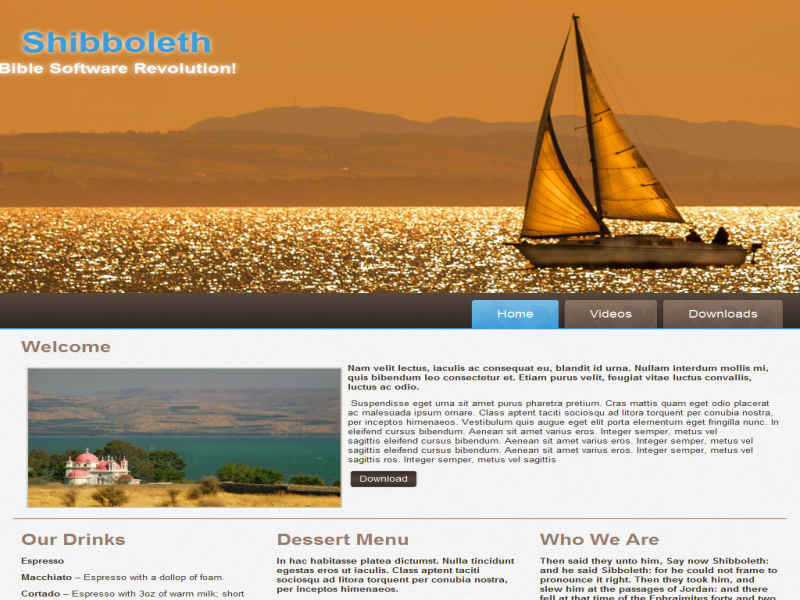
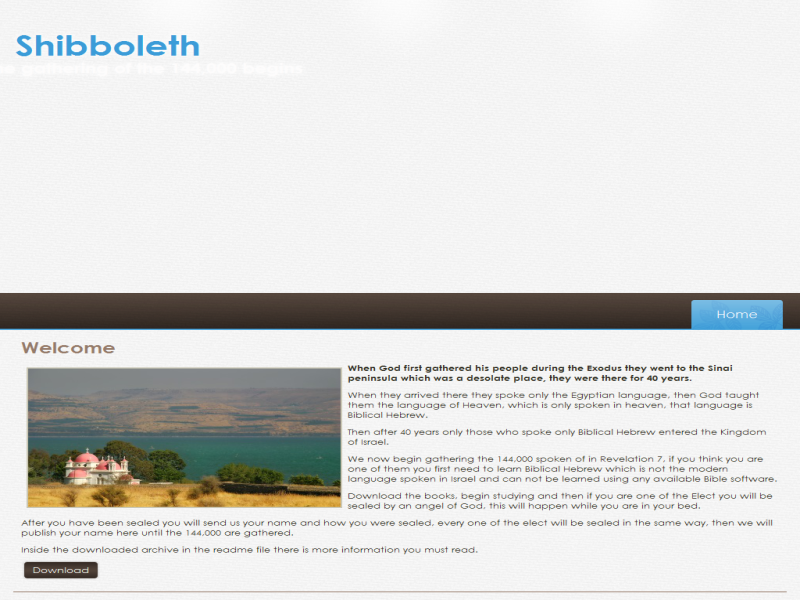
5

diff --git a/index.html b/index.html
@@ -32,7 +32,7 @@
 <h1 class="art-headline">
     <a href="/">Shibboleth</a>
 </h1>
-<h2 class="art-slogan">Bible Software Revolution!</h2>
+<h2 class="art-slogan">The gathering of the 144,000 begins</h2>
 
 
 
@@ -43,7 +43,7 @@
 </header>
 <nav class="art-nav">
     <div class="art-nav-inner">
-    <ul class="art-hmenu"><li><a href="index.html" class="active">Home</a></li><li><a href="videos.html">Videos</a></li><li><a href="downloads.html">Downloads</a></li></ul> 
+    <ul class="art-hmenu"><li><a href="index.html" class="active">Home</a></li></ul> 
         </div>
     </nav>
 <div class="art-sheet clearfix">
@@ -57,8 +57,8 @@
     <div class="art-content-layout-row">
     <div class="art-layout-cell layout-item-1" style="width: 100%" >
         <h3>Welcome</h3>
-        <p><img width="400" height="236" alt="" src="images/Untitled.jpg" style="float: left; border-top-style: solid; border-right-style: solid; border-bottom-style: solid; border-left-style: solid; border-top-color: rgb(202, 199, 180); border-right-color: rgb(202, 199, 180); border-bottom-color: rgb(202, 199, 180); border-left-color: rgb(202, 199, 180); border-top-width: 2px; border-right-width: 2px; border-bottom-width: 2px; border-left-width: 2px;" class=""><span style="font-weight: bold;">Nam velit lectus, iaculis ac consequat eu, blandit id urna. Nullam interdum mollis mi, quis bibendum leo consectetur et. Etiam purus velit, feugiat vitae luctus convallis, luctus ac odio.</span></p>
-        <p>&nbsp;Suspendisse eget urna sit amet purus pharetra pretium. Cras mattis quam eget odio placerat ac malesuada ipsum ornare. Class aptent taciti sociosqu ad litora torquent per conubia nostra, per inceptos himenaeos. Vestibulum quis augue eget elit porta elementum eget fringilla nunc. In eleifend cursus bibendum. Aenean sit amet varius eros. Integer semper, metus vel sagittis&nbsp;eleifend cursus bibendum. Aenean sit amet varius eros. Integer semper, metus vel sagittis&nbsp;eleifend cursus bibendum. Aenean sit amet varius eros. Integer semper, metus vel sagittis ros. Integer semper, metus vel sagittis</p><p>&nbsp;<a href="https://github.com/shibboleth2015/shibboleth/releases" class="art-button">Download</a><br></p>
+        <p><img width="400" height="236" alt="" src="images/Untitled.jpg" style="float: left; border-top-style: solid; border-right-style: solid; border-bottom-style: solid; border-left-style: solid; border-top-color: rgb(202, 199, 180); border-right-color: rgb(202, 199, 180); border-bottom-color: rgb(202, 199, 180); border-left-color: rgb(202, 199, 180); border-top-width: 2px; border-right-width: 2px; border-bottom-width: 2px; border-left-width: 2px;" class=""><span style="font-weight: bold;">When God first gathered his people during the Exodus they went to the Sinai peninsula which was a desolate place, they were there for 40 years.</span></p>
+        <p>When they arrived there they spoke only the Egyptian language, then God taught them the language of Heaven, which is only spoken in heaven, that language is Biblical Hebrew.</p><p>Then after 40 years only those who spoke only Biblical Hebrew entered the Kingdom of Israel.</p><p>We now begin gathering the 144,000 spoken of in Revelation 7, if you think you are one of them you first need to learn Biblical Hebrew which is not the modern language spoken in Israel and can not be learned using any available Bible software.</p><p>Download the books, begin studying and then if you are one of the Elect you will be sealed by an angel of God, this will happen while you are in your bed.</p><p>After you have been sealed you will send us your name and how you were sealed, every one of the elect will be sealed in the same way, then we will publish your name here until the 144,000 are gathered.</p><p>Inside the downloaded archive in the readme file there is more information you must read.</p><p>&nbsp;<a href="https://github.com/shibboleth2015/shibboleth/releases" class="art-button">Download</a><br></p>
     </div>
     </div>
 </div>
@@ -66,9 +66,9 @@
 </div><div class="art-content-layout">
     <div class="art-content-layout-row">
     <div class="art-layout-cell layout-item-1" style="width: 33%" >
-        <h3>Our Drinks</h3>
+        <h3>Requirements</h3>
     </div><div class="art-layout-cell layout-item-1" style="width: 34%" >
-        <h3>Dessert Menu</h3>
+        <h3>Videos</h3>
     </div><div class="art-layout-cell layout-item-1" style="width: 33%" >
         <h3>Who We Are</h3>
     </div>
@@ -77,25 +77,18 @@
 <div class="art-content-layout">
     <div class="art-content-layout-row">
     <div class="art-layout-cell layout-item-1" style="width: 33%" >
-        <p><span style="font-weight: bold;">Espresso</span></p>
+        <p><span style="font-weight: bold;">The requirements for the Elect:</span></p>
         <p>                  </p>
-        <p><span style="font-weight: bold;">Macchiato</span> – Espresso with a dollop of foam.</p>
+        <p><span style="font-weight: bold;">Sealed</span> – Are sealed by an Angel of God in the same way.</p>
         <p>                  </p>
-        <p><span style="font-weight: bold;">Cortado</span> – Espresso with 3oz of warm milk; short and smooth.</p>
+        <p><span style="font-weight: bold;">Follow</span> – S<span style="color: rgb(75, 72, 53); font-family: Verdana, Geneva, Arial, Helvetica, sans-serif; line-height: 20px;">tand on Mount Zion with "a Lamb".</span></p>
         <p>                  </p>
-        <p><span style="font-weight: bold;">Cappuccino</span> – One part espresso, one part milk, one part foam.</p>
-        <p>                  </p>
-        <p><span style="font-weight: bold;">Latte</span> – Espresso and steamed milk, with a touch of foam.</p>
-        <p>                  </p>
-        <p><span style="font-weight: bold;">Mocha</span> – Espresso, steamed milk, and chocolate.</p>
+        <p><span style="font-weight: bold;">New Song</span> –&nbsp;<span style="color: rgb(75, 72, 53); font-family: Verdana, Geneva, Arial, Helvetica, sans-serif; line-height: 20px;">Sing a new song no one else can sing (requires Biblical Hebrew).</span></p><p><span style="font-weight: bold;">Redeemed</span>&nbsp;–&nbsp;<span style="color: rgb(75, 72, 53); font-family: Verdana, Geneva, Arial, Helvetica, sans-serif; line-height: 20px;">Are redeemed from the earth</span>.</p><p><span style="font-weight: bold;">Firstfruits</span>&nbsp;–&nbsp;<span style="color: rgb(75, 72, 53); font-family: Verdana, Geneva, Arial, Helvetica, sans-serif; line-height: 20px;">Are considered the firstfruits of God's harvest</span><span style="color: rgb(75, 72, 53); font-family: Verdana, Geneva, Arial, Helvetica, sans-serif; line-height: 20px;">.</span></p><p><span style="font-weight: bold;">Work</span>&nbsp;–&nbsp;<span style="color: rgb(75, 72, 53); font-family: Verdana, Geneva, Arial, Helvetica, sans-serif; line-height: 20px;">Have a lot of work to do during the coming tribulation</span><span style="color: rgb(75, 72, 53); font-family: Verdana, Geneva, Arial, Helvetica, sans-serif; line-height: 20px;">.</span></p>
         <p>     </p>
     </div><div class="art-layout-cell layout-item-1" style="width: 34%" >
-        <p><span style="font-weight: bold;">In hac habitasse platea dictumst. Nulla tincidunt egestas eros ut iaculis. Class aptent taciti sociosqu ad litora torquent per conubia nostra, per inceptos himenaeos.&nbsp;</span></p>
-        <p>Breakfast Menu <a href="#">...</a></p>
-        <p>Lunch Menu <a href="#"></a>...</p>
-        <p>Dinner Menu&nbsp;<a href="#">...</a></p>
-        <p>Dessert Menu&nbsp;<a href="#">...</a></p>
-        <p>&nbsp;<a href="#" class="art-button">Learn more</a>&nbsp;</p>
+        <p><span style="font-weight: bold;">After the 144,000 have been elected and their names published here, we will gather for the first time, then tasks will be assigned to them.&nbsp;</span></p><p><span style="font-weight: bold;">You must document yourself about the 144,000, first watch these videos taken from the internet to know more.</span></p><p><span style="font-weight: bold;">Time is running out.</span></p><p><a href="https://www.youtube.com/watch?v=zVp0Gn7B8Ks">Video 1&nbsp;...</a><br></p><p><a href="https://www.youtube.com/watch?v=9W_ZqL58to8">Video 2&nbsp;...</a></p>
+        <p><a href="#"></a></p>
+        <p><a href="https://www.youtube.com/watch?v=Bkqr0TVItis">Video 3&nbsp;...</a></p><p><a href="https://www.youtube.com/watch?v=7E8eqHiWTrA">Video 4&nbsp;...</a></p>
     </div><div class="art-layout-cell layout-item-1" style="width: 33%" >
         <p style="text-align: left;"><span style="font-weight: bold;">Then said they unto him, Say now Shibboleth: and he said Sibboleth: for he could not frame to pronounce it right. Then they took him, and slew him at the passages of Jordan: and there fell at that time of the Ephraimites forty and two thousand.</span><br></p><p><span style="font-weight: bold;"></span></p>
         <p><img width="217" height="144" alt="" src="images/sagres3.jpg" style="border-top-style: solid; border-right-style: solid; border-bottom-style: solid; border-left-style: solid; border-top-color: rgb(202, 199, 180); border-right-color: rgb(202, 199, 180); border-bottom-color: rgb(202, 199, 180); border-left-color: rgb(202, 199, 180); border-top-width: 2px; border-right-width: 2px; border-bottom-width: 2px; border-left-width: 2px;" class=""><br></p>
@@ -118,7 +111,7 @@
     <div class="art-layout-cell layout-item-0" style="width: 12%">
         <p><a href="#" class="art-rss-tag-icon" style="line-height: 38px;">RSS</a><br></p>
     </div><div class="art-layout-cell layout-item-1" style="width: 88%">
-        <p>Shibboleth Bible Software 2016. &nbsp; &nbsp; &nbsp; &nbsp; &nbsp; &nbsp; &nbsp; &nbsp;Multae terricolis linguae, coelestibus una.</p>
+        <p>Shibboleth 2017. &nbsp; &nbsp; &nbsp; &nbsp; &nbsp; &nbsp; &nbsp; Many languages in the world, only one in Heaven.</p>
     </div>
     </div>
 </div>

diff --git a/style.css b/style.css
@@ -47,16 +47,16 @@ h1, h2, h3, h4, h5, h6, p, a, ul, ol, li
    background: -ms-linear-gradient(top, #332A24 0, #4E4037 40%, #514339 50%, #4E4037 60%, #332A24 100%) no-repeat;
    -svg-background: linear-gradient(top, #332A24 0, #4E4037 40%, #514339 50%, #4E4037 60%, #332A24 100%) no-repeat;
    background: linear-gradient(to bottom, #332A24 0, #4E4037 40%, #514339 50%, #4E4037 60%, #332A24 100%) no-repeat;
-   -webkit-border-radius:3px;
-   -moz-border-radius:3px;
-   border-radius:3px;
+   -webkit-border-radius:4px;
+   -moz-border-radius:4px;
+   border-radius:4px;
    -webkit-box-shadow:0 0 2px 1px rgba(0, 0, 0, 0.15);
    -moz-box-shadow:0 0 2px 1px rgba(0, 0, 0, 0.15);
    box-shadow:0 0 2px 1px rgba(0, 0, 0, 0.15);
    border:1px solid #453931;
    padding:0 10px;
    margin:0 auto;
-   height:25px;
+   height:26px;
 }
 
 .art-postcontent,
@@ -450,7 +450,7 @@ text-shadow: 0px 0px 12px rgb(255, 255, 255);
   top: 104px;
   left: 0%;
   line-height: 100%;
-  margin-left: -14px !important;
+  margin-left: -19px !important;
   -webkit-transform: rotate(0deg);
   -moz-transform: rotate(0deg);
   -o-transform: rotate(0deg);
@@ -673,11 +673,11 @@ ul.art-hmenu>li>a
    margin:0 auto;
    position: relative;
    display: block;
-   height: 48px;
+   height: 49px;
    cursor: pointer;
    text-decoration: none;
    color: #FFFFFF;
-   line-height: 48px;
+   line-height: 49px;
    text-align: center;
 }
 
@@ -775,11 +775,11 @@ ul.art-hmenu li li ul>li:last-child
 {
    display: block;
    white-space: nowrap;
-   height: 24px;
+   height: 25px;
    min-width: 7em;
    border: 1px solid transparent;
    text-align: left;
-   line-height: 24px;
+   line-height: 25px;
    color: #081D2B;
    font-size: 13px;
    font-family: 'Century Gothic', Arial, 'Arial Unicode MS', Helvetica, Sans-Serif;
@@ -806,7 +806,7 @@ ul.art-hmenu li li ul>li:last-child
 .art-hmenu ul a:hover
 {
    text-align: left;
-   line-height: 24px;
+   line-height: 25px;
    color: #081D2B;
    font-size: 13px;
    font-family: 'Century Gothic', Arial, 'Arial Unicode MS', Helvetica, Sans-Serif;
@@ -1142,7 +1142,7 @@ button.art-button
    overflow: visible;
    cursor: pointer;
    text-indent: 0;
-   line-height: 25px;
+   line-height: 26px;
    -webkit-box-sizing: content-box;
    -moz-box-sizing: content-box;
    box-sizing: content-box;
@@ -1189,9 +1189,9 @@ input.art-button
    background: -ms-linear-gradient(top, #332A24 0, #4E4037 40%, #514339 50%, #4E4037 60%, #332A24 100%) no-repeat;
    -svg-background: linear-gradient(top, #332A24 0, #4E4037 40%, #514339 50%, #4E4037 60%, #332A24 100%) no-repeat;
    background: linear-gradient(to bottom, #332A24 0, #4E4037 40%, #514339 50%, #4E4037 60%, #332A24 100%) no-repeat;
-   -webkit-border-radius:3px;
-   -moz-border-radius:3px;
-   border-radius:3px;
+   -webkit-border-radius:4px;
+   -moz-border-radius:4px;
+   border-radius:4px;
    -webkit-box-shadow:0 0 2px 1px rgba(0, 0, 0, 0.15);
    -moz-box-shadow:0 0 2px 1px rgba(0, 0, 0, 0.15);
    box-shadow:0 0 2px 1px rgba(0, 0, 0, 0.15);
@@ -1212,9 +1212,9 @@ input.art-button
    background: -ms-linear-gradient(top, #332A24 0, #4E4037 40%, #514339 50%, #4E4037 60%, #332A24 100%) no-repeat;
    -svg-background: linear-gradient(top, #332A24 0, #4E4037 40%, #514339 50%, #4E4037 60%, #332A24 100%) no-repeat;
    background: linear-gradient(to bottom, #332A24 0, #4E4037 40%, #514339 50%, #4E4037 60%, #332A24 100%) no-repeat;
-   -webkit-border-radius:3px;
-   -moz-border-radius:3px;
-   border-radius:3px;
+   -webkit-border-radius:4px;
+   -moz-border-radius:4px;
+   border-radius:4px;
    -webkit-box-shadow:0 0 2px 1px rgba(0, 0, 0, 0.15);
    -moz-box-shadow:0 0 2px 1px rgba(0, 0, 0, 0.15);
    box-shadow:0 0 2px 1px rgba(0, 0, 0, 0.15);

diff --git a/script.js b/script.js
@@ -1202,7 +1202,7 @@ resizeData['headline'] = {
        x: 0,
        y: 0
    },
-   width: 244,
+   width: 238,
    height: 47,
    autoWidth: true};
 
@@ -1218,7 +1218,7 @@ resizeData['slogan'] = {
        x: 0,
        y: 0
    },
-   width: 306,
+   width: 407,
    height: 24,
    autoWidth: true};
 
